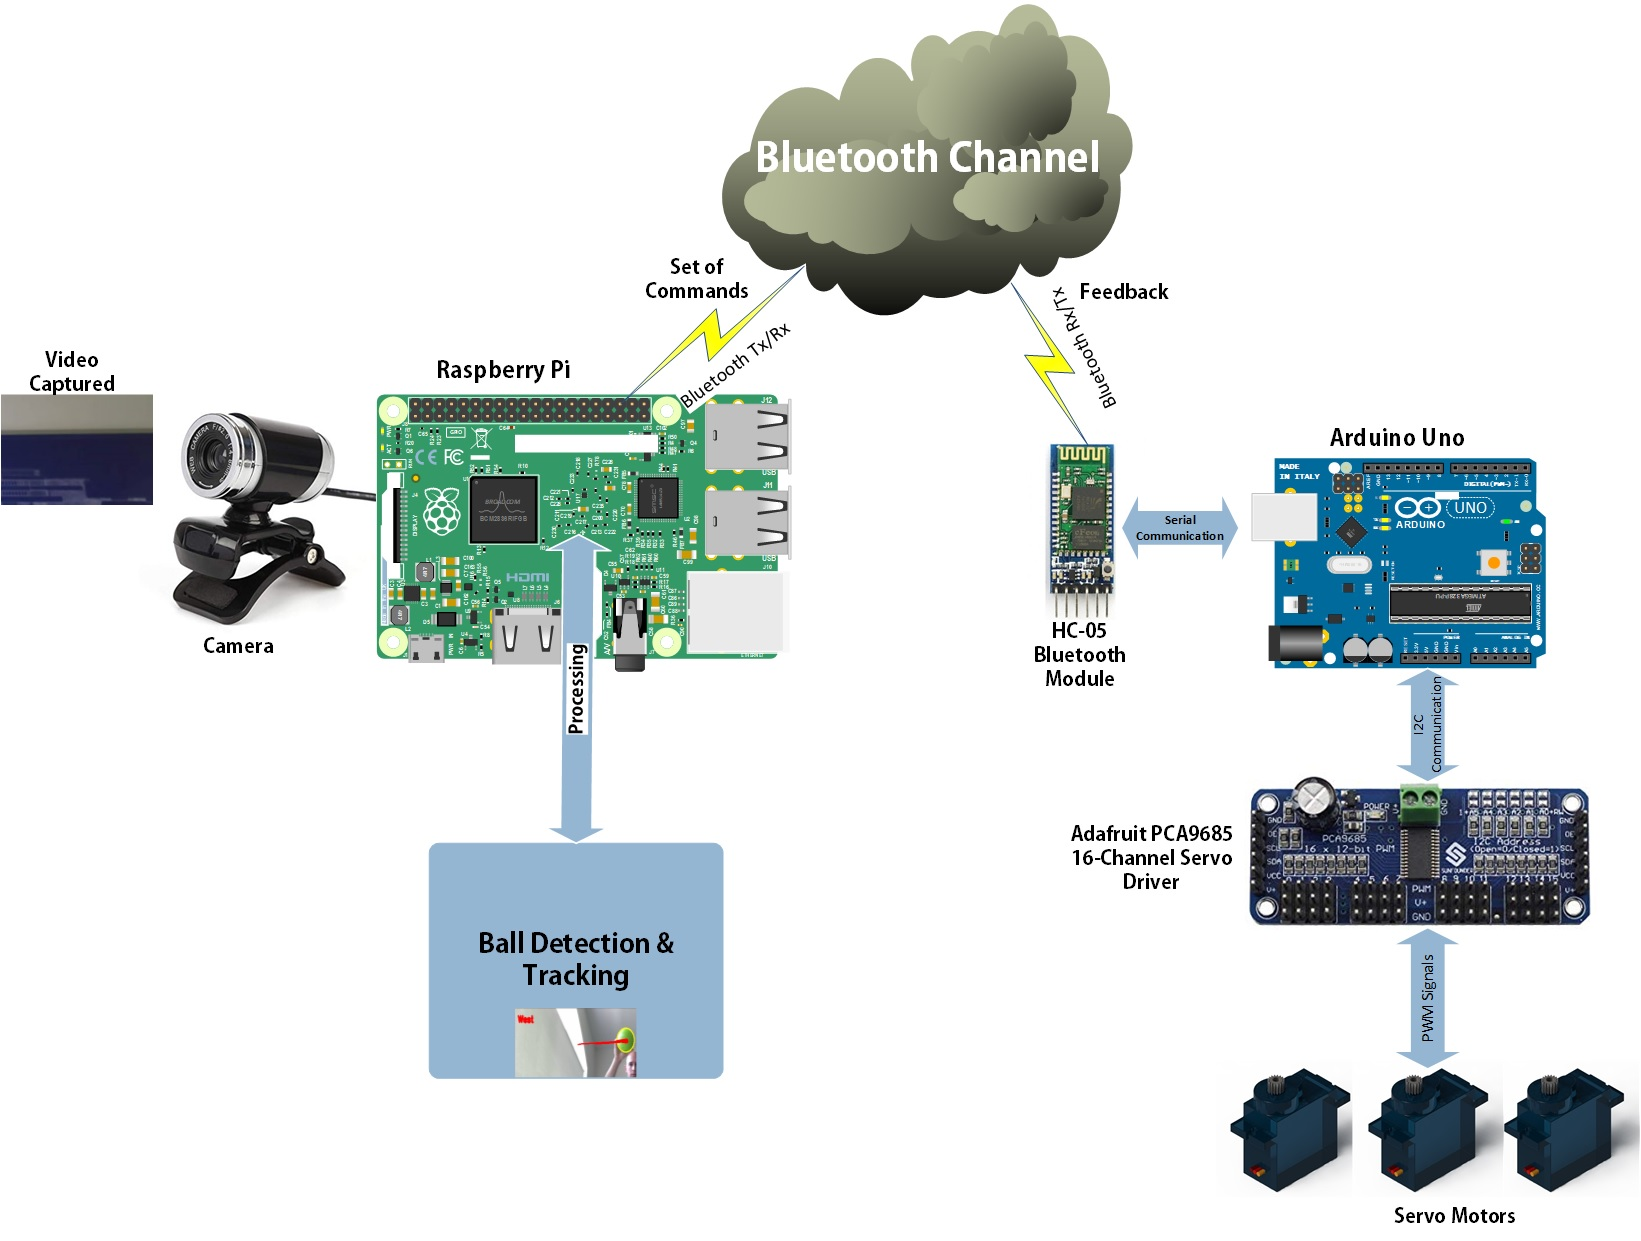
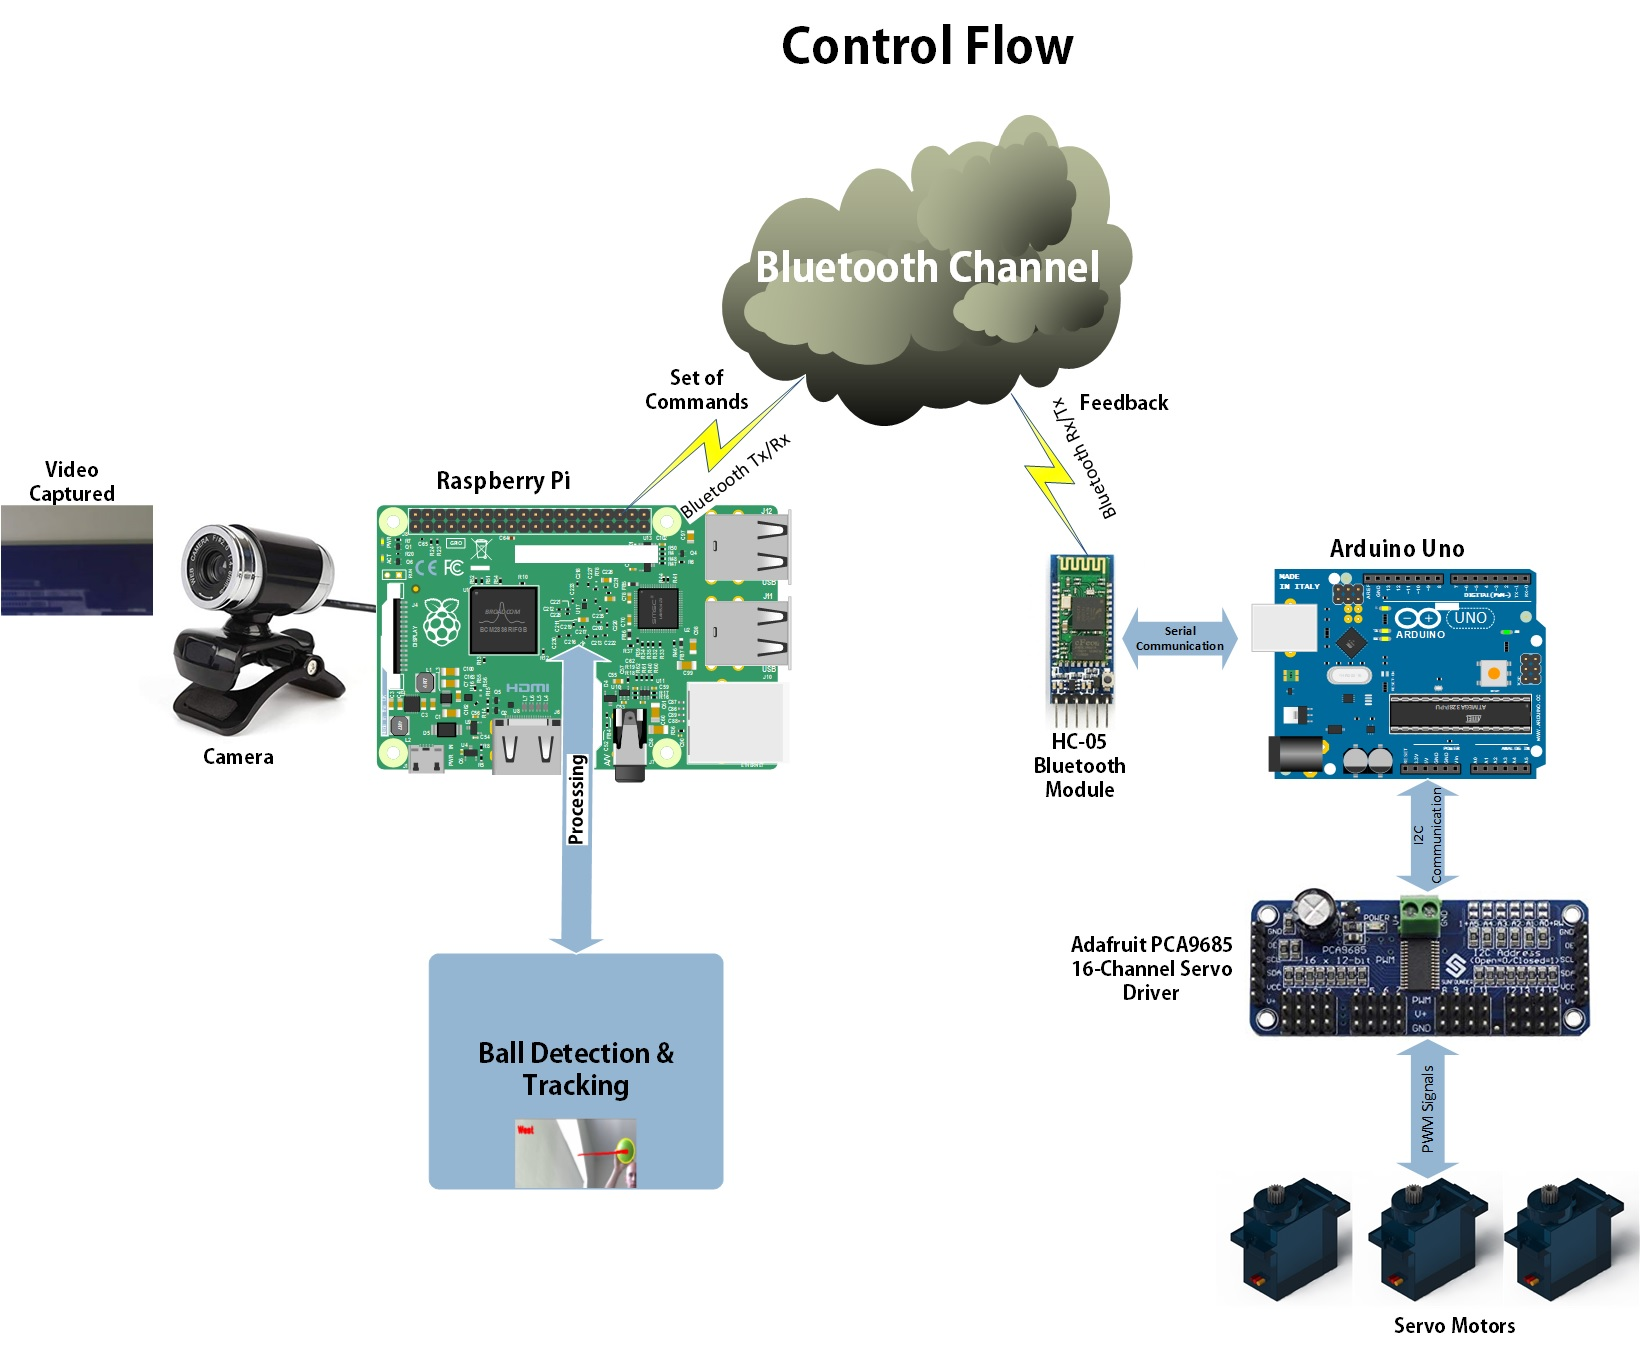
Changes New

diff --git a/_posts/2018-11-12-humanoid-AEAM-2.md b/_posts/2018-11-12-humanoid-AEAM-2.md
@@ -30,22 +30,22 @@ In continuation of my previous post of developing a unique Robotic Advanced Eyes
 > "Do you wonder, How do robots “see”, respond to and learn from their interactions with the world around them?"  
 
 Well, This is the fascinating field of visual intelligence, allows a robot to “*sense*” and “*recognize*” the surrounding environment. It also enables a robot to “learn” from the memory of past experiences by extracting patterns in visual signals.
-It involves extracting statistically meaningful patterns in data that support classification, regression and clustering. Then with the help of studying Computer Vision and Machine Learning together, we could build a recognition algorithms that can learn from data and adapt to new environments.
- So, We will be utilize dlib, [**OpenCV**](https://github.com/abhiTronix/OpenCV_Raspberry_pi_TBB) and Other awesome Computer Vision & Machine learning and will implement real examples of video stabilization, recognition of 3D objects, coding a classifier for objects in our Humanoid Deep Vision.
+It involves extracting statistically meaningful patterns in data that support classification, regression, and clustering. Then with the help of studying Computer Vision and Machine Learning together, we could build a recognition algorithm that can learn from data and adapt to new environments.
+ So, We will be utilizing dlib, [**OpenCV**](https://github.com/abhiTronix/OpenCV_Raspberry_pi_TBB) and Other awesome Computer Vision & Machine learning and will implement real examples of video stabilization, recognition of 3D objects, coding a classifier for objects in our Humanoid Deep Vision.
 
 # Deep Vision integration:
 
 > “Artificial intelligence is growing up fast, as are robots whose facial expressions can elicit empathy and make your mirror neurons quiver.” —Diane Ackerman
 
 Computer vision is an interdisciplinary scientific field that deals with how computers can be made to gain a  high-level understanding from digital images or videos. From the perspective of engineering, it seeks to automate tasks that the human visual system can do.  
-The [**FPV Cameras**](https://www.getfpv.com/fpv/cameras.html) in [**AEAM**](https://abhitronix.github.io/2018/10/25/humanoid-AEAM-1/#designing) eyes will be utilize for providing Vision in our Humanoid. My primary goal is to initially implement & develop a basic Computer Vision example(like Ball Detection & Tracking) algorithm in my [**AEAM**](https://abhitronix.github.io/2018/10/25/humanoid-AEAM-1/#designing) and then move onto more complex machine learning algorithm. This post is inspired by the awesome post by *Adrian Rosebrock*, Check it out [*here*](https://www.pyimagesearch.com/2015/09/14/ball-tracking-with-opencv/) and [*here*](https://www.pyimagesearch.com/2015/09/21/opencv-track-object-movement/).
-  The [**AEAM**](https://abhitronix.github.io/2018/10/25/humanoid-AEAM-1/#designing) Deep Vision is basically a "Artificially Intelligent Robot", that works at a different level:
-  * Ball Detection & Tracking
+The [**FPV Cameras**](https://www.getfpv.com/fpv/cameras.html) in [**AEAM**](https://abhitronix.github.io/2018/10/25/humanoid-AEAM-1/#designing) eyes will be utilized for providing Vision in our Humanoid. My primary goal is to initially implement & develop a basic Computer Vision example(like Ball Detection & Tracking) algorithm in my [**AEAM**](https://abhitronix.github.io/2018/10/25/humanoid-AEAM-1/#designing) and then move onto more complex machine learning algorithm. This post is inspired by the awesome post by *Adrian Rosebrock*, Check it out [*here*](https://www.pyimagesearch.com/2015/09/14/ball-tracking-with-opencv/) and [*here*](https://www.pyimagesearch.com/2015/09/21/opencv-track-object-movement/).
+  The [**AEAM**](https://abhitronix.github.io/2018/10/25/humanoid-AEAM-1/#designing) Deep Vision is basically a "Artificially Intelligent Robot", that works at a different level as follows:
+  * Ball Detection & Tracking:
     * Feature Extraction
 	* Localization
 	* Classification
 	* Direction Finding
-  * Control System
+  * Control Flow:
     * Processing and Command Generation
 	* Transmission
 	* Signal generation and Motion
@@ -53,47 +53,43 @@ The [**FPV Cameras**](https://www.getfpv.com/fpv/cameras.html) in [**AEAM**](htt
   
 
 ### Ball Detection & Tracking:
-   ![](/img/in-post/manav/AEAM-2-2.jpg)
+![](/img/in-post/manav/AEAM-2-2.jpg)
    
-   The proposed Ball detection and tracking architecture follows as:
+   The proposed Ball detection and tracking architecture follow as:
    
    1. **Feature Extraction:** uses color segmentation in a defined color-space to extract features of interesting objects(i.e required colored objects) in the frame. Tip: *Use of blur Filter tends to improve the Color Detection in a noisy image.* 
-   2. **Localization:** isolates and segments objects in very small and noisy pixel patches by applying thresholding on dectected, followed by non-maxima suppression. 
-   The extraction of objects in saliency maps together with advanced image enhancement techniques such as bilateral filtering makes the approach feasible 
-   for a wide range of outdoor scenarios with unknown backgrounds. Also, A series of erosions and dilations remove any small blobs that my be left on the object mask.
+   2. **Localization:** isolates and segments objects in very small and noisy pixel patches by applying thresholding on detected, followed by non-maxima suppression. 
+   The extraction of objects in saliency maps together with advanced image enhancement techniques such as bilateral filtering makes the approach feasible for a wide range of outdoor scenarios with unknown backgrounds. Also, A series of erosions and dilations remove any small blobs that will be left on the object mask.
    3. **Classification:**) is very fast and we compute the minimum enclosing circle of the blob, and then compute the center (x, y)-coordinates (i.e. the “centroids) of the object to be detected.
    4. **Direction Finding:**) which can be done by computing the deltas i.e difference between the x and y coordinates of the current frame and a frame towards the end of the frame buffer in a series of captured frame queue. 
 
-### Control System:  
-    ![](/img/in-post/manav/AEAM-2-3.jpg)
-	
-	1. **Processing and Command Generation:** In this stage, the Raspberry Pi's python program generate a special set of commands in response to values generated in the previous step, and feedback received from the [**Arduino**](https://store.arduino.cc/usa/arduino-uno-rev3). Theses commands are user-defined and hardware specific strings generated in python that a [**Arduino**](https://store.arduino.cc/usa/arduino-uno-rev3) is able to understand. 
-    2. **Transmission:** In this stage, Raspberry Pi communicate with [**Arduino**](https://store.arduino.cc/usa/arduino-uno-rev3) over the bluetooth channel, where Raspberry Pi's inbuilt bluetooth communicate with [**HC-05**](https://wiki.eprolabs.com/index.php?title=Bluetooth_Module_HC-05)  Bluetooth module. The [**HC-05**](https://wiki.eprolabs.com/index.php?title=Bluetooth_Module_HC-05)  module then serially transfer te data recieved from Raspberry Pi to the [**Arduino**](https://store.arduino.cc/usa/arduino-uno-rev3) pins.
-    3. **Signal generation and Motion:** In response to the serial data received by [**Arduino**](https://store.arduino.cc/usa/arduino-uno-rev3), it start [**I2C**](https://www.elprocus.com/i2c-bus-protocol-tutorial-interface-applications/)  protocol with [**Adafruit PCA9685 16-Channel Servo Driver**](https://learn.adafruit.com/16-channel-pwm-servo-driver?view=all). 
-	   * The module generates the required PWM signal which makes Servo move. So according to pulse width and time period of the PWM signal, the Servo start to rotate clock/counter-clockwise generating require rotational motion
-    4. **Feedback Reception:** The [**Arduino**](https://store.arduino.cc/usa/arduino-uno-rev3) generates a feedback signal in response to the motion, and this feedback is transmitted back to the Raspberry Pi, telling it that motion was successfully executed and [**Arduino**](https://store.arduino.cc/usa/arduino-uno-rev3) is ready to receive another command.  
+### Control Flow:  
+![](/img/in-post/manav/AEAM-2-3.jpg)
+	The control System acts as **Artificially Intelligent Robot**, where Both Hardware and Software aspects work in harmony to produce desirable results, which can be summarized as follows:
+	   1. **Processing and Command Generation:** In this stage, the Raspberry Pi's python program generate a special set of commands in response to values generated in the previous step, and feedback received from the [**Arduino**](https://store.arduino.cc/usa/arduino-uno-rev3). These commands are user-defined and hardware specific strings generated in python that a [**Arduino**](https://store.arduino.cc/usa/arduino-uno-rev3) is able to understand. 
+       2. **Transmission:** In this stage, Raspberry Pi communicate with [**Arduino**](https://store.arduino.cc/usa/arduino-uno-rev3) over the Bluetooth channel, where Raspberry Pi's inbuilt Bluetooth communicate with [**HC-05**](https://wiki.eprolabs.com/index.php?title=Bluetooth_Module_HC-05)  Bluetooth module. The [**HC-05**](https://wiki.eprolabs.com/index.php?title=Bluetooth_Module_HC-05)  module then serially transfer te data recieved from Raspberry Pi to the [**Arduino**](https://store.arduino.cc/usa/arduino-uno-rev3) pins.
+       3. **Signal generation and Motion:** In response to the serial data received by [**Arduino**](https://store.arduino.cc/usa/arduino-uno-rev3), it start [**I2C**](https://www.elprocus.com/i2c-bus-protocol-tutorial-interface-applications/)  protocol with [**Adafruit PCA9685 16-Channel Servo Driver**](https://learn.adafruit.com/16-channel-pwm-servo-driver?view=all). 
+	      * The module generates the required PWM signal which makes Servo move. So according to pulse width and time period of the PWM signal, the Servo start to rotate clock/counter-clockwise generating require rotational motion
+       4. **Feedback Reception:** The [**Arduino**](https://store.arduino.cc/usa/arduino-uno-rev3) generates a feedback signal in response to the motion, and this feedback is transmitted back to the Raspberry Pi, telling it that motion was successfully executed and [**Arduino**](https://store.arduino.cc/usa/arduino-uno-rev3) is ready to receive another command.  
     
 	
-	And this cycle continues over each frame, that provide real-time performance as seen in the video below:
+	And this cycle continues over each frame, that provides real-time performance as seen in the video below:
 
 <iframe width="560" height="315" src="https://www.youtube.com/embed/1efCJBKpQ1I" frameborder="0" allow="accelerometer; autoplay; encrypted-media; gyroscope; picture-in-picture" allowfullscreen></iframe>
 
 ### Conclusion:
-    A basic Computer Vision example (i.e Object detection & Tracking) has been implemented. We can see certain performance degradation factors as follows:
-	- The Field of View(FoV) is very narrow/limited.
-	- Low quality video and more false positive detection
-	- Jitteriness at the output 
-	
+
+A basic Computer Vision example (i.e Object detection & Tracking) has been implemented. We can see certain performance degradation factors in this approach, such as:
+	* The Field of View(FoV) is very narrow/limited.
+	* Low quality video and more false positive detection
+	* Jitteriness at the output 	
 
 # Reworked Field of View(FoV):
-  The initial approach/algorithm have narrow/limited Field of View which is done knowingly in order to limit divers kinematics's distortions caused by false positive results in the low quality video received from [**FPV Cameras**](https://www.getfpv.com/fpv/cameras.html)s. 
-    So, I ran various experimental tests to eliminate these problems but sadly none of them worked as supposed as does in simulations(due to few hardware limitations & losses).
-	The video signal distortion was causing the false positive detection at the output. So in order to minimize it, I made some algorithm modifications, such as:
-	- Switching to more robust color space: Since I'm using color segmentation to detect the object, the color space is highly affected by the effect of different lighting conditions. So in accordance with various external lightening conditions, I have to decide robust color detection system for my humanoid. A more detailed information on this topic can be found 
-	[*here*](https://www.learnopencv.com/color-spaces-in-opencv-cpp-python/).
-	- Slowing Rough Swift Servo Motions: To minimize distortion due to jitterness caused by sudden servo motion, I replaced my kinematics motion values, with a set of precisely calculated mathematical ones(by trail and error experiments), so that servo can rotate precisely and with minimal speed. 
-	It is now able to compensate for any rough X-Y translations into a rather smoother camera translation without blurring out or losing targets. Thus, minimizing the false positive results. 
-	- Frame by Frame Calibration: The idea here was that the features/data of each frame are tracked, stored and calibrated prior to the next frame and this filters out unwanted values.
+  In the initial approach(as discussed above), I narrowed the Field of View(FoV) of AEAM to limit divers kinematics's distortions which are caused by false positive results in the low-quality video received from 
+  [**FPV Cameras**](https://www.getfpv.com/fpv/cameras.html). It was a temporary but not practical solution to this problem. So I ran a number of experiments and came up with the following solutions:
+	* **Switching to more robust color space:** Since I'm using color segmentation to detect the object, the color space is highly affected by the effect of different lighting conditions. So in accordance with various external lightening conditions, I have to decide robust color detection system for my humanoid. A piece of more detailed information on this topic can be found [*here*](https://www.learnopencv.com/color-spaces-in-opencv-cpp-python/).
+	* **Slowing Rough Swift Servo Motions:** To minimize distortion due to jitteriness caused by sudden servo motion, I replaced my kinematics motion values, with a set of precisely calculated mathematical ones(by trial and error experiments), so that servo can rotate precisely and with minimal speed. It is now able to compensate for any rough X-Y translations into a rather smoother camera translation without blurring out or losing targets. Thus, minimizing the false positive results. 
+	* **Frame by Frame Calibration:** The idea here was that the features/data of each frame are tracked, stored and calibrated prior to the next frame and this filters out unwanted values.
 
 <iframe width="560" height="315" src="https://www.youtube.com/embed/HTxZ2Rk8wgM" frameborder="0" allow="accelerometer; autoplay; encrypted-media; gyroscope; picture-in-picture" allowfullscreen></iframe>
 

diff --git a/_posts/2018-10-10-humanoid-begin.md b/_posts/2018-10-10-humanoid-begin.md
@@ -26,7 +26,6 @@ Today, I'm starting my dream project "A Human-Sized Artificially Intelligent Hum
 > So, the question is "What's the Difference Between Robotics and Artificial Intelligence?" and "What types of robots are suitable for our Humanoid Project?"
 
 
-
 Let's answer:
 
 **Robotics:** Robotics is a branch of technology which deals with robots. Robots are programmable machines which are usually able to carry out a series of actions autonomously, or semi-autonomously.
@@ -48,7 +47,6 @@ Then comes Artificially Intelligent Robots:
 **Artificially intelligent robots** are the hybrid between robotics and AI. These are robots which are controlled by AI programs. Up until quite recently, all industrial robots could only be programmed to carry out a repetitive series of movements. As we have discussed, repetitive movements do not require artificial intelligence. Non-intelligent robots are quite limited in their functionality, whereas AI algorithms allow them to perform more complex tasks. Thereby, making them suitable for our Humanoid project.
 
   
-
 # My Roadmap:
 
 > “*A year spent in artificial intelligence is enough to make one believe in God.*” — Alan Perlis
@@ -67,7 +65,7 @@ After done researching, I reached the following conclusion:
 
 ### Resources gathering:
 - To tackle Artificial intelligence problem, I decided to develop my own AI which I already been working on, known as [**Matson AI**](https://sites.google.com/view/matson-ai/home), a python language-based human alike artificial intelligence derived from [**Naomi Project**](https://github.com/NaomiProject/Naomi). It can see(Deep Vision), talk, hear, recognize its environment through its sensors. It is made exclusively for raspberry pi and is created in the first place so as to able to embed it on any existing system/hardware that requires onboard intelligence on the go. So, I decided to develop it further for my Humanoid and gave it the ability to manipulate its environment(through servos and motors) by sending required control signals.
-- Further, I decided to adopt an open-sourced Humanoid design called [**InMoov Humanoid**](http://inmoov.fr) developed by _Gaël Langevin_, and planned to further develop/innovate its parts according to my Humanoid needs. It gave me idea and direction, which tends to make my job of designing humanoid way easier.
+- Further, I decided to adopt an open-sourced Humanoid design called [**InMoov Humanoid**](http://inmoov.fr) developed by _Gaël Langevin_ and planned to further develop/innovate its parts according to my Humanoid needs. It gave me idea and direction, which tends to make my job of designing humanoid way easier.
 
 These are my initial thoughts, for developing my Humanoid. Through this research, I'll be able to study various aspects of inventing/developing newer technologies by combining existing open-source technologies in the field of Humanoids, Robots, and Artificial-Intelligence in order to help to shape our future.
 

diff --git a/_posts/2018-10-25-humanoid-AEAM-1.md b/_posts/2018-10-25-humanoid-AEAM-1.md
@@ -15,7 +15,7 @@ Update: 25 October 2018
 
 ---
 
-Today, I'm going to share my journey of developing a unique Robotic Advanced Eyes Articulate Mechanism, a hybrid design that can somewhat mimics the natural movement of Human eyes. I divided this post into multiple parts to
+Today, I'm going to share my journey of developing a unique Robotic Advanced Eyes Articulate Mechanism, a hybrid design that can somewhat mimic the natural movement of Human eyes. I divided this post into multiple parts to
 explain briefly the various stages of its development. So let's get to it!
 
 # My Thoughts:
@@ -63,7 +63,7 @@ and I preferred my own control mechanism and the controlling is done by:
 
 <iframe width="871" height="490" src="https://www.youtube.com/embed/extUGuceefo" frameborder="0" allow="accelerometer; autoplay; encrypted-media; gyroscope; picture-in-picture" allowfullscreen></iframe>
 
-The initial design lacks in many factors, such as:
+The initial design lacks many factors, such as:
 1. Synchronization: Human eyes are synchronized to provide near 180 degrees of Field of View. 
 2. Variable Degree of Freedom: The initial design cannot control the Degree of Freedom of eyes which leads to unnatural movement of eyes, which kind of looks too spooky! 
 3. Stress on servos due to Variable Degree of Freedom
@@ -74,7 +74,7 @@ The initial design lacks in many factors, such as:
 
 ![](/img/in-post/manav/AEAM-3.jpg)
 * EyeLids: The human Eyelid is a thin fold of skin that covers and protects the human eye. The blink reflex protects the eye from foreign bodies. This feature made me think that why don't I incorporate this in my AEAM design in order to protect the cameras from dust and simultaneously provide shade in a bright light environment.
-So I redesigned the AEAM parts in [**Solidworks**](https://www.solidworks.com/) and implemented this feature into the design. The only change in hardware is that the micro servos number increased to 4x to 6x but the rest of the hardware remained same.
+So I redesigned the AEAM parts in [**Solidworks**](https://www.solidworks.com/) and implemented this feature into the design. The only change in hardware is that the micro servos number increased to 4x to 6x but the rest of the hardware remained the same.
 Due to the limited space, I repositioned the servos a number of times in the design to get the optimal configuration.
 
 * Secondly, I added a Bluetooth Module([**HC-05**](https://wiki.eprolabs.com/index.php?title=Bluetooth_Module_HC-05) in my case) to remotely communicate with the Arduino microcontroller.
